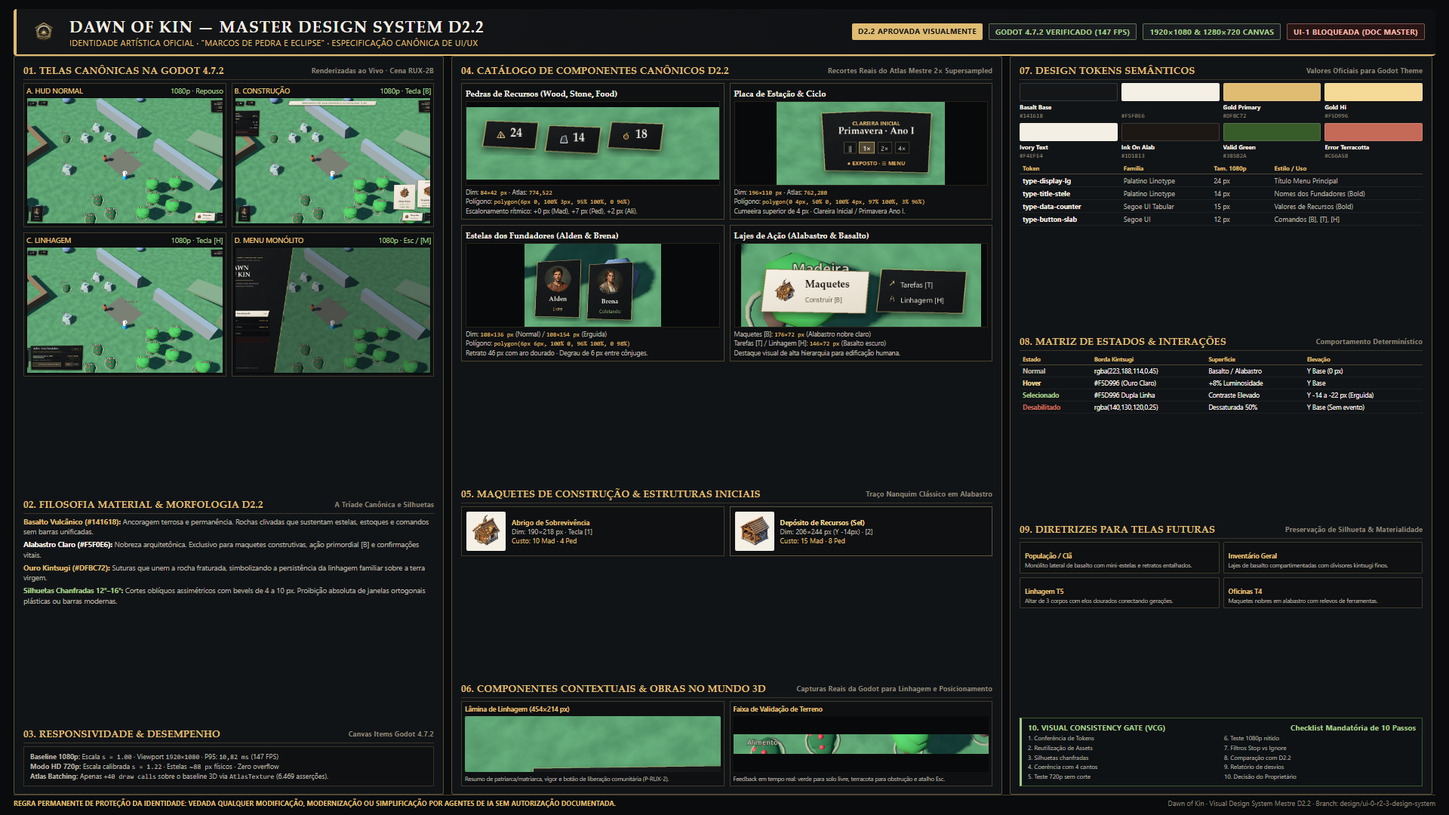
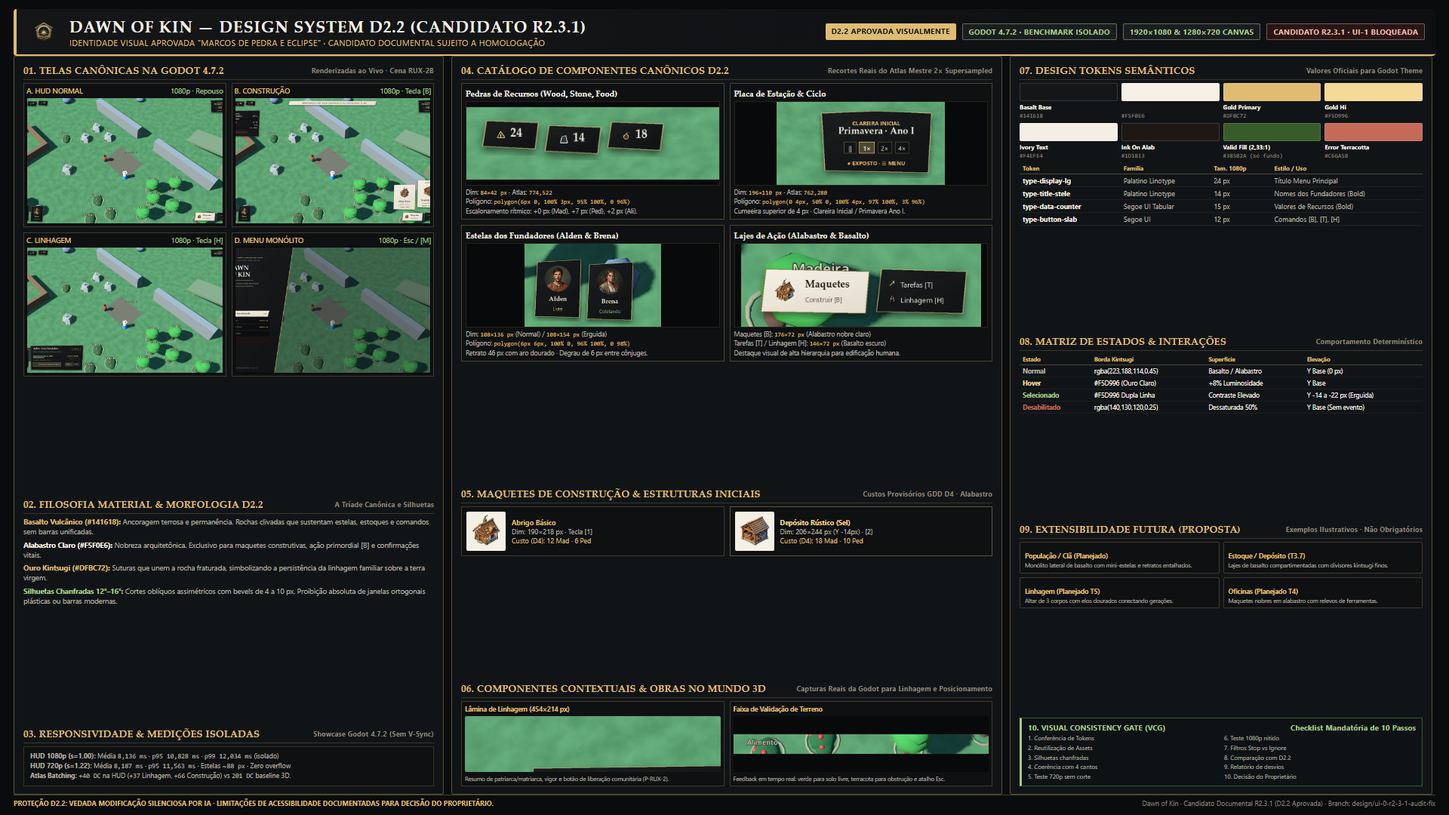
docs(ui-0-r2.3.1): audit and fix factual, WCAG 2.1, GDD D4, and benchmark consistency

diff --git a/docs/design/ui-0-r2-3/sources/D2_2_master_design_system_1920x1080.html b/docs/design/ui-0-r2-3/sources/D2_2_master_design_system_1920x1080.html
@@ -317,15 +317,15 @@
     <div class="header-left">
       <img src="file:///C:/Projetos/Dawn_of_Kin_wt_ui_0_r2_3/docs/design/ui-0-r2-2/assets/emblem_dawn_of_kin.png" class="emblem" alt="Emblem">
       <div class="title-group">
-        <h1>DAWN OF KIN — MASTER DESIGN SYSTEM D2.2</h1>
-        <p>IDENTIDADE ARTÍSTICA OFICIAL · "MARCOS DE PEDRA E ECLIPSE" · ESPECIFICAÇÃO CANÔNICA DE UI/UX</p>
+        <h1>DAWN OF KIN — DESIGN SYSTEM D2.2 (CANDIDATO R2.3.1)</h1>
+        <p>IDENTIDADE VISUAL APROVADA "MARCOS DE PEDRA E ECLIPSE" · CANDIDATO DOCUMENTAL SUJEITO A HOMOLOGAÇÃO</p>
       </div>
     </div>
     <div class="badges">
       <div class="badge badge-gold">D2.2 APROVADA VISUALMENTE</div>
-      <div class="badge badge-dark">GODOT 4.7.2 VERIFICADO (147 FPS)</div>
+      <div class="badge badge-dark">GODOT 4.7.2 · BENCHMARK ISOLADO</div>
       <div class="badge badge-dark">1920×1080 & 1280×720 CANVAS</div>
-      <div class="badge badge-alert">UI-1 BLOQUEADA (DOC MASTER)</div>
+      <div class="badge badge-alert">CANDIDATO R2.3.1 · UI-1 BLOQUEADA</div>
     </div>
   </div>
 
@@ -374,13 +374,13 @@
 
       <div>
         <div class="panel-title">
-          03. Responsividade & Desempenho
-          <span>Canvas Items Godot 4.7.2</span>
+          03. Responsividade & Medições Isoladas
+          <span>Showcase Godot 4.7.2 (Sem V-Sync)</span>
         </div>
-        <div style="font-size:9px; color:#B8B2A5; line-height:1.35; background:#0E1012; padding:6px 8px; border:1px solid rgba(223,188,114,0.2);">
-          <div><strong>Baseline 1080p:</strong> Escala <code>s = 1.00</code> · Viewport <code>1920×1080</code> · P95: <code>10,82 ms</code> (147 FPS)</div>
-          <div><strong>Modo HD 720p:</strong> Escala calibrada <code>s = 1.22</code> · Estelas ~<code>88 px</code> físicos · Zero overflow</div>
-          <div><strong>Atlas Batching:</strong> Apenas <code>+40 draw calls</code> sobre o baseline 3D via <code>AtlasTexture</code> (6.469 asserções).</div>
+        <div style="font-size:8.8px; color:#B8B2A5; line-height:1.35; background:#0E1012; padding:6px 8px; border:1px solid rgba(223,188,114,0.2);">
+          <div><strong>HUD 1080p (s=1.00):</strong> Média <code>8,136 ms</code> · <code>p95 10,828 ms</code> · <code>p99 12,034 ms</code> (isolado)</div>
+          <div><strong>HUD 720p (s=1.22):</strong> Média <code>8,187 ms</code> · <code>p95 11,563 ms</code> · Estelas ~<code>88 px</code> · Zero overflow</div>
+          <div><strong>Atlas Batching:</strong> <code>+40 DC</code> na HUD (<code>+37</code> Linhagem, <code>+66</code> Construção) vs <code>201 DC</code> baseline 3D.</div>
         </div>
       </div>
     </div>
@@ -438,23 +438,23 @@
       <div>
         <div class="panel-title">
           05. Maquetes de Construção & Estruturas Iniciais
-          <span>Traço Nanquim Clássico em Alabastro</span>
+          <span>Custos Provisórios GDD D4 · Alabastro</span>
         </div>
         <div style="display:grid; grid-template-columns:1fr 1fr; gap:7px;">
           <div style="background:#0E1012; border:1px solid rgba(223,188,114,0.25); padding:6px; display:flex; gap:8px; align-items:center;">
             <img src="file:///C:/Projetos/Dawn_of_Kin_wt_ui_0_r2_3/docs/design/ui-0-r2-2/assets/d1_shelter_mini.png" style="width:52px; height:52px; object-fit:contain; background:#F5F0E6; border-radius:2px;">
             <div style="font-size:9px;">
-              <strong style="color:#DFBC72;">Abrigo de Sobrevivência</strong><br>
+              <strong style="color:#DFBC72;">Abrigo Básico</strong><br>
               <span style="color:#B8B2A5;">Dim: 190×218 px · Tecla [1]</span><br>
-              <span style="color:#DFBC72;">Custo: 10 Mad · 4 Ped</span>
+              <span style="color:#DFBC72;">Custo (D4): 12 Mad · 6 Ped</span>
             </div>
           </div>
           <div style="background:#0E1012; border:1px solid rgba(223,188,114,0.4); padding:6px; display:flex; gap:8px; align-items:center;">
             <img src="file:///C:/Projetos/Dawn_of_Kin_wt_ui_0_r2_3/docs/design/ui-0-r2-2/assets/d1_depot_mini.png" style="width:52px; height:52px; object-fit:contain; background:#F5F0E6; border-radius:2px;">
             <div style="font-size:9px;">
-              <strong style="color:#F5D996;">Depósito de Recursos (Sel)</strong><br>
+              <strong style="color:#F5D996;">Depósito Rústico (Sel)</strong><br>
               <span style="color:#B8B2A5;">Dim: 206×244 px (Y -14px) · [2]</span><br>
-              <span style="color:#DFBC72;">Custo: 15 Mad · 8 Ped</span>
+              <span style="color:#DFBC72;">Custo (D4): 18 Mad · 10 Ped</span>
             </div>
           </div>
         </div>
@@ -522,8 +522,8 @@
           </div>
           <div class="swatch">
             <div class="swatch-color" style="background:#385B2A;"></div>
-            <div class="swatch-name">Valid Green</div>
-            <div class="swatch-hex">#385B2A</div>
+            <div class="swatch-name">Valid Fill (2,33:1)</div>
+            <div class="swatch-hex">#385B2A (só fundo)</div>
           </div>
           <div class="swatch">
             <div class="swatch-color" style="background:#C66A58;"></div>
@@ -580,24 +580,24 @@
       <div>
         <!-- EXTENSIBILITY RULES -->
         <div class="panel-title">
-          09. Diretrizes para Telas Futuras
-          <span>Preservação de Silhueta & Materialidade</span>
+          09. Extensibilidade Futura (PROPOSTA)
+          <span>Exemplos Ilustrativos · Não Obrigatórios</span>
         </div>
         <div class="ext-grid">
           <div class="ext-card">
-            <strong>População / Clã</strong>
+            <strong>População / Clã (Planejado)</strong>
             <p>Monólito lateral de basalto com mini-estelas e retratos entalhados.</p>
           </div>
           <div class="ext-card">
-            <strong>Inventário Geral</strong>
+            <strong>Estoque / Depósito (T3.7)</strong>
             <p>Lajes de basalto compartimentadas com divisores kintsugi finos.</p>
           </div>
           <div class="ext-card">
-            <strong>Linhagem T5</strong>
+            <strong>Linhagem (Planejado T5)</strong>
             <p>Altar de 3 corpos com elos dourados conectando gerações.</p>
           </div>
           <div class="ext-card">
-            <strong>Oficinas T4</strong>
+            <strong>Oficinas (Planejado T4)</strong>
             <p>Maquetes nobres em alabastro com relevos de ferramentas.</p>
           </div>
         </div>
@@ -631,9 +631,9 @@
   <!-- FOOTER -->
   <div class="footer">
     <div class="footer-rule">
-      REGRA PERMANENTE DE PROTEÇÃO DA IDENTIDADE: VEDADA QUALQUER MODIFICAÇÃO, MODERNIZAÇÃO OU SIMPLIFICAÇÃO POR AGENTES DE IA SEM AUTORIZAÇÃO DOCUMENTADA.
+      PROTEÇÃO D2.2: VEDADA MODIFICAÇÃO SILENCIOSA POR IA · LIMITAÇÕES DE ACESSIBILIDADE DOCUMENTADAS PARA DECISÃO DO PROPRIETÁRIO.
     </div>
-    <div>Dawn of Kin · Visual Design System Mestre D2.2 · Branch: design/ui-0-r2-3-design-system</div>
+    <div>Dawn of Kin · Candidato Documental R2.3.1 (D2.2 Aprovada) · Branch: design/ui-0-r2-3-1-audit-fix</div>
   </div>
 
 </body>

diff --git a/docs/design/DAWN_OF_KIN_VISUAL_DESIGN_SYSTEM.md b/docs/design/DAWN_OF_KIN_VISUAL_DESIGN_SYSTEM.md
@@ -1,12 +1,12 @@
 # DAWN OF KIN — DESIGN SYSTEM MESTRE
-## Identidade Visual Oficial D2.2: "Marcos de Pedra e Eclipse"
+## Referência Visual Aprovada D2.2: "Marcos de Pedra e Eclipse"
 
-> **Status:** `OFICIAL (PROPOSTA MASTER R2.3)` — Especificação formal e permanente da linguagem visual de Dawn of Kin, derivada da restauração fiel da Direção D2 aprovada visualmente pelo proprietário em 22/11/2026 (`design/ui-0-r2-2-d2-visual-fidelity` @ commit `1ab8ffb78c269f3a659712491de91ab1f317e919`).  
+> **Status:** `CANDIDATO DOCUMENTAL (UI-0 R2.3.1)` — Auditoria e correção factual do candidato documental R2.3, baseado na restauração fiel da Direção D2 aprovada visualmente pelo proprietário em 22/11/2026 (`design/ui-0-r2-2-d2-visual-fidelity` @ commit `1ab8ffb78c269f3a659712491de91ab1f317e919`). **Aguarda avaliação expressa e homologação do proprietário.**  
 > **Hierarquia e Limites:**  
 > 1. GDD Consolidado e decisões vigentes: autoridade máxima sobre regras de gameplay, simulação e narrativa.  
 > 2. Direção Artística D2 Original (`design/ui-0-r2-identity` @ `f138177`): fonte primária de composição, silhueta e atmosfera estética.  
-> 3. Reprodução D2.2 na Godot (`design/ui-0-r2-2-d2-visual-fidelity` @ `1ab8ffb`): referência visual aprovada e balizamento técnico de renderização.  
-> 4. Este Design System (R2.3): padronização documental, catálogo de tokens e regras de preservação.  
+> 3. Reprodução D2.2 na Godot (`design/ui-0-r2-2-d2-visual-fidelity` @ `1ab8ffb`): **identidade visual aprovada** e referência técnica de renderização.  
+> 4. Este Design System (`R2.3.1 — Candidato Documental`): padronização, catálogo de tokens e regras de preservação, sem poder de alterar a D2.2 nem o GDD.  
 > **Restrição mandatória:** **UI-1 permanece BLOQUEADA.** Este documento não autoriza alterações em código de produção, gameplay, `MainScene` ou arquitetura técnica.
 
 ---
@@ -39,7 +39,7 @@ A materialidade da interface é governada estritamente por três texturas e subs
 
 2. **Alabastro Claro Esculpido (`#F5F0E6` a `#E5DDCD`):**
    - Rocha calcária nobre, de textura cerâmica e tonalidade marfim aquecida. Funciona como a "tela" sobre a qual a intenção humana projeta suas criações.
-   - Aplicação: A laje de ação primordial (`Maquetes / Construir [B]`), as maquetes verticais de estruturas (`Abrigo de Sobrevivência`, `Depósito de Recursos`) e as teclas primárias de ação do menu.
+   - Aplicação: A laje de ação primordial (`Maquetes / Construir [B]`), as maquetes verticais de estruturas (`Abrigo Básico`, `Depósito Rústico`) e as teclas primárias de ação do menu.
    - Significado: A arquitetura planejada, o esforço criativo contra o caos da natureza e a distinção imediata de ações construtivas.
 
 3. **Ouro Kintsugi e Filetes de Eclipse (`#DFBC72` / `#F5D996`):**
@@ -63,24 +63,31 @@ Todos os valores numéricos e cromáticos foram extraídos diretamente da implem
 
 ### 2.1 Paleta de Cores e Tokens Cromáticos
 
-| Token Semântico | Valor Hex | RGBA Normalizado (Godot) | Rácio WCAG | Uso Canônico Obrigatório | Proibições Explícitas |
+| Token Semântico | Valor Hex | RGBA Normalizado (Godot) | Rácio WCAG 2.1 | Categoria / Uso Canônico Obrigatório | Limitações e Proibições Explícitas |
 |---|---|---|---|---|---|
-| `color-surface-basalt-base` | `#141618` | `Color(0.078, 0.086, 0.094, 1.0)` | — | Fundo base de painéis e estelas | Proibido usar preto puro (`#000000`) |
-| `color-surface-basalt-deep` | `#0E1013` | `Color(0.055, 0.063, 0.075, 1.0)` | — | Áreas rebaixadas, entalhes de retrato | Proibido usar cinza neutro sem matiz azulado |
-| `color-surface-alabaster-base` | `#F5F0E6` | `Color(0.961, 0.941, 0.902, 1.0)` | — | Superfície de maquetes e laje de construir | Proibido usar branco puro (`#FFFFFF`) |
-| `color-surface-alabaster-edge` | `#E5DDCD` | `Color(0.898, 0.867, 0.804, 1.0)` | — | Borda interna chanfrada de alabastro | Proibido gradiente artificial plástico |
-| `color-accent-gold-primary` | `#DFBC72` | `Color(0.875, 0.737, 0.447, 1.0)` | `7.8:1` vs basalto | Filetes kintsugi, molduras de retratos, ícones | Proibido amarelo saturado (`#FFFF00`) |
-| `color-accent-gold-highlight`| `#F5D996` | `Color(0.961, 0.851, 0.588, 1.0)` | `9.4:1` vs basalto | Ponto de luz em hover e borda de seleção | Proibido brilhos tipo neon ou bloom excessivo |
-| `color-accent-gold-dim` | `#6A5832` | `Color(0.416, 0.345, 0.196, 0.65)`| — | Divisores secundários, grades sutis | Proibido usar linhas sólidas brancas |
-| `color-text-primary-ivory` | `#F4EFE4` | `Color(0.957, 0.937, 0.894, 1.0)` | `13.1:1` vs basalto | Texto principal sobre basalto, contadores | Proibido texto cinza escuro sobre basalto |
-| `color-text-secondary-muted` | `#B8B2A5` | `Color(0.722, 0.698, 0.647, 1.0)` | `7.2:1` vs basalto | Subtítulos, custos secundários, atalhos | Proibido usar fontes de baixo contraste (<4.5:1) |
-| `color-text-on-alabaster-ink`| `#1D1813` | `Color(0.114, 0.094, 0.075, 1.0)` | `12.8:1` vs alabastro | Título "Maquetes", nomes de estruturas | Proibido usar texto claro sobre alabastro |
-| `color-text-on-alabaster-sub`| `#5B4B3A` | `Color(0.357, 0.294, 0.227, 1.0)` | `6.9:1` vs alabastro | Atalhos e descrições sobre alabastro | Proibido usar preto fosco absoluto |
-| `color-feedback-valid-green` | `#385B2A` | `Color(0.220, 0.357, 0.165, 1.0)` | `5.6:1` vs basalto | Terreno válido, trabalhadores livres | Proibido verde neon ou verde radioativo |
-| `color-feedback-valid-bright`| `#A5C98B` | `Color(0.647, 0.788, 0.545, 1.0)` | `9.8:1` vs basalto | Rótulo de confirmação "LOCAL VÁLIDO" | Proibido uso em botões não-confirmativos |
-| `color-feedback-error-rose` | `#F2B8AC` | `Color(0.949, 0.722, 0.675, 1.0)` | `8.2:1` vs basalto | Bloqueios, obstáculos, cancelamentos | Proibido vermelho puro de alarme web |
-| `color-feedback-error-dark` | `#C66A58` | `Color(0.776, 0.416, 0.345, 1.0)` | `4.6:1` vs basalto | Barra de status de terreno inválido | Proibido piscar intermitente agressivo |
-| `color-feedback-amber` | `#EAB464` | `Color(0.918, 0.706, 0.392, 1.0)` | `8.1:1` vs basalto | Alertas de sobrevivência, status exposto | Proibido laranja fluorescente |
+| `color-surface-basalt-base` | `#141618` | `Color(0.078, 0.086, 0.094, 1.0)` | — (Fundo) | Fundo base de painéis e estelas | Proibido usar preto puro (`#000000`) |
+| `color-surface-basalt-deep` | `#0E1013` | `Color(0.055, 0.063, 0.075, 1.0)` | — (Fundo) | Áreas rebaixadas, entalhes de retrato | Proibido usar cinza neutro sem matiz azulado |
+| `color-surface-alabaster-base` | `#F5F0E6` | `Color(0.961, 0.941, 0.902, 1.0)` | — (Fundo) | Superfície de maquetes e laje de construir | Proibido usar branco puro (`#FFFFFF`) |
+| `color-surface-alabaster-edge` | `#E5DDCD` | `Color(0.898, 0.867, 0.804, 1.0)` | — (Fundo/Borda) | Borda interna chanfrada de alabastro | Proibido gradiente artificial plástico |
+| `color-accent-gold-primary` | `#DFBC72` | `Color(0.875, 0.737, 0.447, 1.0)` | `10,00:1` vs basalto (`AAA`) | Filetes kintsugi, molduras de retratos, ícones; fundo de badge com texto `#1D1813` (`9,71:1` AAA) | Proibido amarelo saturado (`#FFFF00`) |
+| `color-accent-gold-highlight`| `#F5D996` | `Color(0.961, 0.851, 0.588, 1.0)` | `13,17:1` vs basalto (`AAA`) | Ponto de luz em hover e borda de seleção | Proibido brilhos tipo neon ou bloom excessivo |
+| `color-accent-gold-dim` | `#6A5832` | `Color(0.416, 0.345, 0.196, 0.65)`| `2,64:1` vs basalto *(s/ alpha)* | **Decorativo:** divisores secundários, grades sutis | **Abaixo de 3:1:** proibido para texto ou único indicador interativo |
+| `color-text-primary-ivory` | `#F4EFE4` | `Color(0.957, 0.937, 0.894, 1.0)` | `15,82:1` vs basalto (`AAA`) | Texto principal sobre basalto, contadores | Proibido texto cinza escuro sobre basalto |
+| `color-text-secondary-muted` | `#B8B2A5` | `Color(0.722, 0.698, 0.647, 1.0)` | `8,59:1` vs basalto (`AAA`) | Subtítulos, custos secundários, atalhos | Proibido usar fontes de baixo contraste (< 4,5:1) |
+| `color-text-on-alabaster-ink`| `#1D1813` | `Color(0.114, 0.094, 0.075, 1.0)` | `15,51:1` vs alabastro (`AAA`) | Título "Maquetes", nomes de estruturas | Proibido usar texto claro sobre alabastro |
+| `color-text-on-alabaster-sub`| `#5B4B3A` | `Color(0.357, 0.294, 0.227, 1.0)` | `7,36:1` vs alabastro (`AAA`) | Atalhos e descrições sobre alabastro | Proibido usar preto fosco absoluto |
+| `color-feedback-valid-green` | `#385B2A` | `Color(0.220, 0.357, 0.165, 1.0)` | **`2,33:1`** vs basalto *(Limitação)*; `6,79:1` com texto `#F4EFE4` (`AA`) | **Fundo** de indicador/barra/botão válido com texto `#F4EFE4` | **Limitação WCAG:** abaixo de 3:1 sobre basalto. Proibido como texto ou indicador isolado sem `#A5C98B` |
+| `color-feedback-valid-bright`| `#A5C98B` | `Color(0.647, 0.788, 0.545, 1.0)` | `9,78:1` vs basalto (`AAA`); `4,20:1` vs `#385B2A` *(só UI/grande)* | Rótulo e ícone de confirmação `"LOCAL VÁLIDO"` sobre basalto | Sobre fundo `#385B2A`, usar apenas para ícones/texto grande (≥ 3:1); texto pequeno sobre `#385B2A` deve usar `#F4EFE4` |
+| `color-feedback-error-rose` | `#F2B8AC` | `Color(0.949, 0.722, 0.675, 1.0)` | `10,56:1` vs basalto (`AAA`) | Texto de bloqueios, obstáculos, cancelamentos sobre basalto | Proibido vermelho puro de alarme web |
+| `color-feedback-error-dark` | `#C66A58` | `Color(0.776, 0.416, 0.345, 1.0)` | `4,84:1` vs basalto (`AA`); `3,27:1` com `#F4EFE4` *(só UI/grande)* | Barra/indicador de terreno inválido sobre basalto | Texto pequeno sobre fundo `#C66A58` deve evitar `#F4EFE4` (`3,27:1`); preferir texto `#F2B8AC` sobre `#141618` |
+| `color-feedback-amber` | `#EAB464` | `Color(0.918, 0.706, 0.392, 1.0)` | `9,68:1` vs basalto (`AAA`) | Alertas de sobrevivência, status `EXPOSTO` | Proibido laranja fluorescente |
+
+#### 2.1.1 Classificação Funcional de Contraste (Texto × Indicador × Decorativo) e Remediações
+Os cálculos acima seguem a fórmula oficial de luminância relativa da **WCAG 2.1** ($L = 0{,}2126 R + 0{,}7152 G + 0{,}0722 B$ linearizado; razão $= (L_1 + 0{,}05) / (L_2 + 0{,}05)$):
+- **Texto normal:** exige mínimo `4,5:1` (AA) / `7,0:1` (AAA). Todas as combinações principais de texto sobre basalto (`#F4EFE4`, `#B8B2A5`, `#DFBC72`, `#A5C98B`, `#F2B8AC`, `#EAB464`) e sobre alabastro (`#1D1813`, `#5B4B3A`) atingem nível **AAA**.
+- **Indicadores gráficos e componentes de UI (WCAG 1.4.11):** exigem mínimo `3,0:1`.
+- **Elementos puramente decorativos:** divisores sutis (`#6A5832`, `2,64:1`) e texturas de veio kintsugi são isentos, desde que não transmitam estado exclusivo.
+- **Limitação formal registrada (`#385B2A` sobre `#141618` = `2,33:1`):** O verde musgo `#385B2A` da paleta D2.2 não atinge `3,0:1` diretamente contra o basalto `#141618`. **Solução visual compatível (sem alterar a identidade D2.2):** empregar `#385B2A` apenas como preenchimento interno acompanhado de texto `#F4EFE4` (`6,79:1`) e/ou filete/ícone em `#A5C98B` (`9,78:1` contra o basalto), submetendo qualquer ajuste adicional de brilho do `#385B2A` à aprovação expressa do proprietário antes da `UI-1`.
 
 ### 2.2 Sistema Tipográfico Canônico
 A tipografia de *Dawn of Kin* é explicitamente híbrida, combinando a reverência histórica das fontes serifadas com a precisão tabular das fontes sans-serif contemporâneas.
@@ -251,8 +258,8 @@ Todos os 10 componentes abaixo estão integralmente referenciados no Atlas de pr
 - **Materialidade:** Placas verticais nobres de alabastro claro com contorno chanfrado.
 - **Conteúdo Interno:**
   - Ilustração arquitetônica em traço clássico sépia/nanquim (`d1_shelter_mini.png` e `d1_depot_mini.png`).
-  - Nome da estrutura em nanquim bold serifado de `13 px`.
-  - Custos de madeira e pedra com mini-ícones e valores em nanquim escuro.
+  - Nome da estrutura em nanquim bold serifado de `13 px`: **Abrigo Básico** (`shelter_basic`) e **Depósito Rústico** (`storage_depot`).
+  - Custos de madeira e pedra com mini-ícones e valores em nanquim escuro (parâmetros provisórios `D4` do GDD e `data/buildings/*.tres`: **12 Madeiras + 6 Pedras** para o Abrigo Básico; **18 Madeiras + 10 Pedras** para o Depósito Rústico).
   - Tag de atalho numérico (`[1]`, `[2]`) no canto superior.
 
 ---
@@ -277,7 +284,7 @@ Todos os 10 componentes abaixo estão integralmente referenciados no Atlas de pr
   - Posição na Tela 1080p: Centro-direita (`x: 1592 px`, `y: 736 px`).
 - **Geometria:** Laje espessa de basalto chanfrada com filete dourado integral.
 - **Conteúdo Interno:**
-  - Nome do canteiro (`Canteiro: Depósito de Recursos`) e estágio físico.
+  - Nome do canteiro (`Canteiro: Depósito Rústico`) e estágio físico.
   - Barra de progresso de acumulação de materiais e horas de trabalho.
   - Lista de habitantes atribuídos automaticamente pela coleta comunitária.
   - Botão de prioridade de obra e botão de demolição/cancelamento.
@@ -355,35 +362,38 @@ flowchart TD
 
 ---
 
-## 5. Diretrizes de Aplicação para Novas Telas
+## 5. Diretrizes de Aplicação para Novas Telas (`PROPOSTA DE EXTENSIBILIDADE`)
 
 > **Regra de Ouro:** "Nenhuma tela futura de Dawn of Kin poderá parecer uma janela de software comercial ou um kit visual independente. Toda interface adicional deve parecer esculpida pelas mesmas mãos, na mesma rocha e sob a mesma luz de eclipse."
+> **Escopo Normativo:** Os exemplos abaixo ilustram exclusivamente **como aplicar a linguagem visual D2.2** caso essas telas venham a ser autorizadas no futuro. Eles **não convertem hipóteses de design em funcionalidades obrigatórias** nem autorizam implementação fora das etapas vigentes do GDD.
 
-Quando novos sistemas forem introduzidos nas etapas futuras autorizadas, eles deverão estritamente recombinar as peças canônicas D2.2:
+Quando sistemas futuros (`PLANEJADO` ou `PROPOSTA` no GDD) forem expressamente autorizados, eles deverão recombinar as peças canônicas D2.2:
 
 ```
 +----------------------------------------------------------------------------------------------------+
-|                               DIRETRIZES PARA SISTEMAS FUTUROS                                     |
+|                      EXEMPLOS ILUSTRATIVOS PARA SISTEMAS FUTUROS (PROPOSTA)                        |
 |                                                                                                    |
-|    SISTEMA FUTURO         ESTRUTURA VISUAL OBRIGATÓRIA D2.2                                        |
-|    01. População / Clã    • Monólito vertical de basalto à esquerda, similar ao Menu               |
-|                           • Mini-estelas para cada habitante com retratos circulares entalhados    |
+|    SISTEMA NO GDD              ESTRUTURA VISUAL PROPOSTA (LINGUAGEM D2.2)                          |
+|    01. População / Clã         • Monólito vertical de basalto à esquerda, similar ao Menu          |
+|        (PLANEJADO T3.5/T5)     • Mini-estelas para habitantes com retratos circulares entalhados   |
 |                                                                                                    |
-|    02. Inventário Total   • Lajes horizontais divididas em compartimentos chanfrados               |
-|                           • Fundo grafite vulcânico com divisores kintsugi sutis                   |
+|    02. Estoque / Depósito      • Lajes horizontais divididas em compartimentos chanfrados          |
+|        (IMPLEMENTADO/T3.7)     • Fundo grafite vulcânico com divisores kintsugi sutis              |
 |                                                                                                    |
-|    03. Linhagem T5        • Expansão da Lâmina Contextual para um altar de três corpos             |
-|                           • Nós genealógicos conectados por veios dourados ramificados             |
+|    03. Linhagem e Genealogia   • Expansão da Lâmina Contextual para um altar de três corpos        |
+|        (PLANEJADO T5)          • Nós genealógicos conectados por veios dourados ramificados        |
 |                                                                                                    |
-|    04. Oficinas T4        • Semelhante às Maquetes de Construção: painéis em alabastro nobre       |
-|                           • Ferramentas e itens representados como relevos gravados na rocha       |
+|    04. Oficinas & Artesanato   • Semelhante às Maquetes de Construção: painéis em alabastro nobre  |
+|        (PLANEJADO T4)          • Ferramentas e itens representados como relevos gravados na rocha  |
 |                                                                                                    |
-|    05. Comércio Cap. 3    • Díptico de balança: laje do assentamento × laje da caravana visitante  |
-|                           • Indicadores de equivalência em seixos de valor                         |
+|    05. Comércio / Caravanas    • Díptico de balança: laje do assentamento × laje visitante         |
+|        (PLANEJADO Cap. 3)      • Indicadores de equivalência em seixos de valor                    |
 |                                                                                                    |
-|    06. Configurações      • Monólito central de basalto com controles em alabastro (sliders/toggles)|
+|    06. Configurações           • Monólito central de basalto com controles em alabastro            |
+|        (PLANEJADO T3.8)        • Preserva silhuetas chanfradas e tokens da Seção 2                 |
 +----------------------------------------------------------------------------------------------------+
 ```
+*(Nota: Outros domínios previstos no GDD — como Exploração/Cap. 2, Diplomacia/Cap. 3 e Defesa/T7 — seguem o mesmo princípio: reutilização dos tokens, silhuetas chanfradas e tríade material D2.2, sem criar kits visuais paralelos.)*
 
 ---
 
@@ -399,8 +409,8 @@ Todos os recursos gráficos constitutivos da identidade visual oficial estão co
 | [`portrait_alden.jpg`](../design/ui-0-r2-2/assets/portrait_alden.jpg) | `256 × 256` | JPEG | `16 KB` | Retrato do patriarca fundador Alden | Obra original de estúdio. Sem royalties. |
 | [`portrait_brena.jpg`](../design/ui-0-r2-2/assets/portrait_brena.jpg) | `256 × 256` | JPEG | `17 KB` | Retrato da matriarca fundadora Brena | Obra original de estúdio. Sem royalties. |
 | [`emblem_dawn_of_kin.png`](../design/ui-0-r2-2/assets/emblem_dawn_of_kin.png) | `512 × 512` | PNG | `128 KB` | Emblema solar místico gravado em ouro | Obra original de estúdio. Sem royalties. |
-| [`d1_shelter_mini.png`](../design/ui-0-r2-2/assets/d1_shelter_mini.png) | `512 × 512` | PNG | `204 KB` | Miniatura arquitetônica do Abrigo de Sobrevivência | Obra original de estúdio. Sem royalties. |
-| [`d1_depot_mini.png`](../design/ui-0-r2-2/assets/d1_depot_mini.png) | `512 × 512` | PNG | `207 KB` | Miniatura arquitetônica do Depósito Comunitário | Obra original de estúdio. Sem royalties. |
+| [`d1_shelter_mini.png`](../design/ui-0-r2-2/assets/d1_shelter_mini.png) | `512 × 512` | PNG | `204 KB` | Miniatura arquitetônica do Abrigo Básico (`shelter_basic`) | Obra original de estúdio. Sem royalties. |
+| [`d1_depot_mini.png`](../design/ui-0-r2-2/assets/d1_depot_mini.png) | `512 × 512` | PNG | `207 KB` | Miniatura arquitetônica do Depósito Rústico (`storage_depot`) | Obra original de estúdio. Sem royalties. |
 | [`d2_kintsugi_basalt.png`](../design/ui-0-r2-2/assets/d2_kintsugi_basalt.png) | `1024 × 1024` | PNG | `347 KB` | Textura base de basalto mineral com veios dourados para assamento | Obra original de estúdio. Sem royalties. |
 
 *Declaração de Conformidade Legal:* Nenhum dos arquivos acima infringe direitos autorais, contém marcas registradas de terceiros ou impõe restrições para distribuição em código aberto comercial.
@@ -422,8 +432,11 @@ Para assegurar a mesma fidelidade de layout tanto em `1920×1080` quanto em `128
    - Em telas `1080p`: fator de escala `s = 1.00`.
    - Em telas `720p`: fator de escala `s = 1.22` sobre as coordenadas do canvas lógico, mantendo o tamanho físico percebido dos elementos idêntico ao benchmark aprovado (estelas ~`88 px` de largura física, placa ~`160 px`).
 
-### 7.2 Loteamento de Draw Calls via `AtlasTexture`
-O uso do atlas consolidado `d2_2_faithful_atlas.png` reduz o custo de renderização de toda a interface para menos de **+40 draw calls** sobre a cena 3D, atingindo framerates superiores a **140 FPS** em hardware integrado (Intel UHD Graphics 620).
+### 7.2 Loteamento de Draw Calls via `AtlasTexture` e Medições Isoladas (R2.2)
+O uso do atlas consolidado `d2_2_faithful_atlas.png` reduziu o custo adicional de renderização da HUD em repouso (`D2_2_FAITHFUL_HUD`) para **`+40` draw calls** sobre o baseline 3D (`241` vs `201`), com **`+37` draw calls** em `D2_2_FAITHFUL_LINEAGE` (`238`) e **`+66` draw calls** em `D2_2_FAITHFUL_CONSTRUCTION` (`267`), conforme `benchmark_results_r2_2.json` (`Intel(R) UHD Graphics 620`, `OpenGL 3.3 Compatibility`, `VSYNC_DISABLED`, `540` quadros válidos por cenário sobre `res://tests/visual/rux_2b_multi_source_selection.tscn`):
+- **`1920×1080` (`scale = 1.00`):** `D2_2_FAITHFUL_HUD` registrou média mediana de `8,136 ms` (`+0,977 ms` sobre `BASELINE_3D`), `p95` mediano `10,828 ms` (`10,323..11,127 ms`), `p99` mediano `12,034 ms` (`11,146..12,094 ms`) e `0` quadros `> 100 ms`. `D2_2_FAITHFUL_CONSTRUCTION` registrou `p95` mediano `12,334 ms` e `p99` mediano `14,075 ms`.
+- **`1280×720` (`scale = 1.22`):** `D2_2_FAITHFUL_HUD` registrou média mediana de `8,187 ms`, `p95` mediano `11,563 ms`, `p99` mediano `13,638 ms` e `0` quadros `> 100 ms`.
+- **Escopo e Limitação:** Trata-se de **benchmark preliminar de renderização isolada sem V-Sync**, sem simulação pesada simultânea de gameplay e sem distinção formal CA × bateria DC; portanto **não constitui medição de FPS sustentado em gameplay nem homologação final de desempenho**.
 
 ```gdscript
 # Exemplo canônico de instanciação de elemento via Atlas:
@@ -502,4 +515,5 @@ Qualquer futura necessidade de um componente inexistente deve ser formulada segu
 > - É expressamente vedado remover as pedras de recursos escalonadas ou fundir as estelas dos fundadores em dípticos comuns.
 > - É expressamente vedado substituir o alabastro nobre da laje de maquetes por botões convencionais cinzentos.
 > - Ajustes técnicos de resolução, acessibilidade ou correções de corte de texto são permitidos apenas desde que preservem 100% da silhueta, composição e materiais da referência D2.2.
+> - **Documentação de Problemas de Acessibilidade e Usabilidade:** Esta norma **não impede** que limitações de legibilidade, contraste (ex.: `#385B2A` sobre `#141618` a `2,33:1`) ou usabilidade sejam abertamente diagnosticadas, registradas com evidência e submetidas ao proprietário com propostas compatíveis de remediação — **vedando apenas alterações visuais unilaterais ou silenciosas** sem decisão documentada.
 > - Em caso de dúvida ou conflito de design, a IA deve paralisar a atividade, expor o dilema com clareza e aguardar a decisão do usuário.

diff --git a/docs/design/ui-0-r2-3/ERRATA_UI_0_R2_3_1.md b/docs/design/ui-0-r2-3/ERRATA_UI_0_R2_3_1.md
@@ -1,0 +1,27 @@
+# RELATÓRIO DE ERRATA — UI-0 R2.3.1
+## Auditoria de Consistência Factual do Design System Mestre D2.2
+
+> **Status:** `CANDIDATO DOCUMENTAL` (aguardando revisão e homologação expressa do proprietário).  
+> **Base auditada:** `design/ui-0-r2-3-design-system` @ commit `8ba3f75a41be5239540ee258e5c933f4a50e1902`.  
+> **Branch de correção:** `design/ui-0-r2-3-1-audit-fix` (worktree isolado `C:\Projetos\Dawn_of_Kin_wt_ui_0_r2_3_1`).  
+> **Preservação visual:** Nenhuma ilustração, composição, silhueta, proporção ou asset da identidade visual aprovada **D2.2 — Marcos de Pedra e Eclipse** (`1ab8ffb`) foi alterado.
+
+---
+
+## Tabela Consolidada de Errata (6 Eixos Auditados)
+
+| # | Eixo | Informação Anterior Incorreta (`R2.3 @ 8ba3f75`) | Correção Aplicada (`R2.3.1`) | Evidência Verificada nos Arquivos Reais | Arquivos Afetados |
+|---|---|---|---|---|---|
+| **1** | **Custos e Nomes de Construção** | Prancha exibia `Abrigo de Sobrevivência (10 Mad · 4 Ped)` e `Depósito de Recursos (15 Mad · 8 Ped)`. Manual repetia nomes não canônicos. | Corrigido para **`Abrigo Básico` (`12 Mad · 6 Ped`)** e **`Depósito Rústico` (`18 Mad · 10 Ped`)**, explicitando tratar-se de parâmetros provisórios `D4`. | `docs/Dawn_of_Kin_GDD.md` (linhas 203–205); `data/buildings/shelter_basic.tres`; `data/buildings/storage_depot.tres`. | `DAWN_OF_KIN_VISUAL_DESIGN_SYSTEM.md` (§1.2, §3 C06/C08, §6); `D2_2_master_design_system_1920x1080.html` & `.png` (§05). |
+| **2** | **Desempenho e Escopo de Testes** | Prancha e §7.2 citavam `147 FPS`, `> 140 FPS`, `"menos de +40 draw calls"` e `6.469 asserções` no contexto do Atlas UI. | Removidos `147 FPS`, `> 140 FPS` e `6.469 asserções` (que pertence à suíte T2 em `AGENTS.md`). Registradas medições reais isoladas sem V-Sync (`HUD 1080p: média 8,136 ms, p95 10,828 ms, p99 12,034 ms, +40 DC`; `Construção: +66 DC`; `Linhagem: +37 DC`; `720p: p95 11,563 ms`), com limitação explícita de benchmark isolado. | `docs/design/ui-0-r2-2/godot_showcase/benchmark_results_r2_2.json`; `docs/architecture/UI_0_R2_2_D2_visual_fidelity_PROPOSAL.md` (§4.2); `AGENTS.md`. | `DAWN_OF_KIN_VISUAL_DESIGN_SYSTEM.md` (§7.2); `D2_2_master_design_system_1920x1080.html` & `.png` (Badge, §03). |
+| **3** | **Contraste e Acessibilidade (WCAG 2.1)** | `#385B2A` sobre `#141618` constava como `5.6:1`; demais rácios da tabela §2.1 estavam aproximados/imprecisos e sem distinção texto × indicador × decorativo. | Recalculados todos os rácios pela fórmula WCAG 2.1: `#385B2A` vs `#141618` = **`2,33:1`** (abaixo de 3:1); `#6A5832` vs `#141618` = **`2,64:1`**; `#DFBC72` = `10,00:1`; `#F5D996` = `13,17:1`; `#F4EFE4` = `15,82:1`; `#B8B2A5` = `8,59:1`; `#1D1813` vs `#F5F0E6` = `15,51:1`; `#5B4B3A` = `7,36:1`; `#A5C98B` = `9,78:1`; `#F2B8AC` = `10,56:1`; `#C66A58` = `4,84:1`; `#EAB464` = `9,68:1`. Adicionada §2.1.1 com regra de uso (`#385B2A` apenas como fundo com `#F4EFE4` [`6,79:1`] ou pareado com `#A5C98B`). | Cálculo linearizado sRGB oficial WCAG 2.1 executado sobre os hex exatos de `ui0_r2_2_d2_faithful_showcase.gd` e CSS D2. | `DAWN_OF_KIN_VISUAL_DESIGN_SYSTEM.md` (§2.1, §2.1.1); `D2_2_master_design_system_1920x1080.html` & `.png` (§07 swatch). |
+| **4** | **Recursos Futuros** | §5 listava sistemas futuros sem marcar claramente que são propostas artísticas ilustrativas, usando tom de obrigação ("deverão estritamente"). | Classificados explicitamente como `PROPOSTA DE EXTENSIBILIDADE` com marcadores do GDD (`PLANEJADO T3.5/T5`, `IMPLEMENTADO/T3.7`, `PLANEJADO T4`, `PLANEJADO Cap. 3`), esclarecendo que não criam obrigações de gameplay. | `docs/Dawn_of_Kin_GDD.md` (tabela de estágios e decisões `DECIDIDO`/`PLANEJADO`/`PROPOSTA`). | `DAWN_OF_KIN_VISUAL_DESIGN_SYSTEM.md` (§5); `D2_2_master_design_system_1920x1080.html` & `.png` (§09). |
+| **5** | **Autoridade Documental** | Documento intitulava-se `OFICIAL (PROPOSTA MASTER R2.3)` e `ESPECIFICAÇÃO CANÔNICA DE UI/UX`. | Mantida a **D2.2** como *identidade visual aprovada* e reclassificado o Design System **R2.3.1** como **`CANDIDATO DOCUMENTAL`** até homologação expressa do proprietário. | Diretriz do proprietário na solicitação `UI-0 R2.3.1` e `AGENTS.md`. | `DAWN_OF_KIN_VISUAL_DESIGN_SYSTEM.md` (cabeçalho); `D2_2_master_design_system_1920x1080.html` & `.png` (título, badge, rodapé). |
+| **6** | **Regras de Preservação & Acessibilidade** | §10 podia dar margem a interpretar que limitações de acessibilidade não poderiam ser reportadas sem risco de conflito com a proteção da D2.2. | Mantida a vedação absoluta a alterações visuais unilaterais/silenciosas da D2.2, explicitando que problemas de legibilidade, acessibilidade e usabilidade devem ser diagnosticados e submetidos ao proprietário com propostas compatíveis. | Diretriz do proprietário na solicitação `UI-0 R2.3.1`. | `DAWN_OF_KIN_VISUAL_DESIGN_SYSTEM.md` (§10); `D2_2_master_design_system_1920x1080.html` & `.png` (rodapé). |
+
+---
+
+## Verificação de Integridade
+- `git diff 8ba3f75..HEAD` restringe-se exclusivamente a `docs/design/DAWN_OF_KIN_VISUAL_DESIGN_SYSTEM.md` e `docs/design/ui-0-r2-3/`.
+- Nenhuma modificação em `src/`, `scenes/`, `data/`, `tests/`, `docs/Dawn_of_Kin_GDD.md`, `AGENTS.md`, `docs/design/ui-0-r2-2/assets/` ou `C:\Projetos\Dawn of Kin`.
+- `UI-1` permanece estritamente **BLOQUEADA**.
